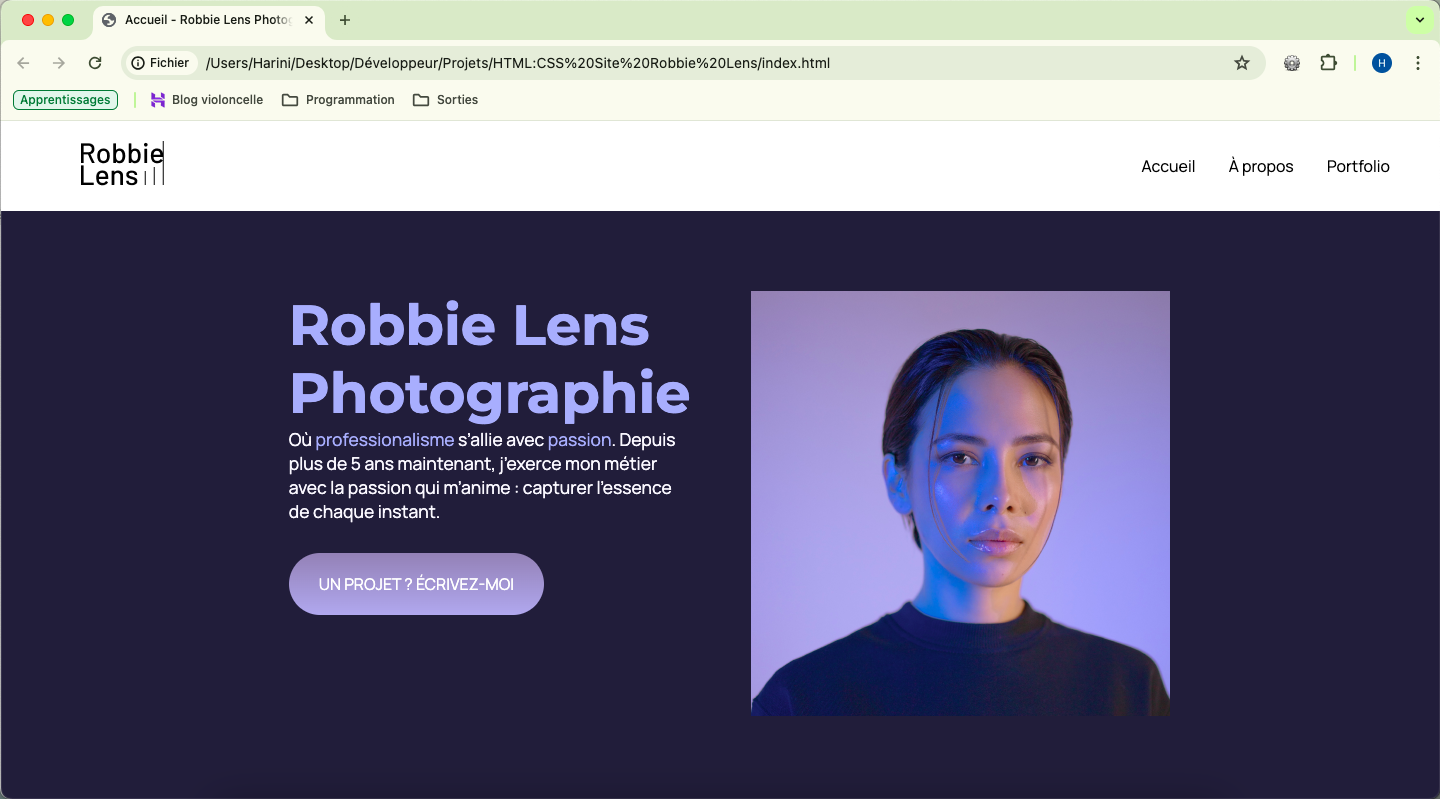
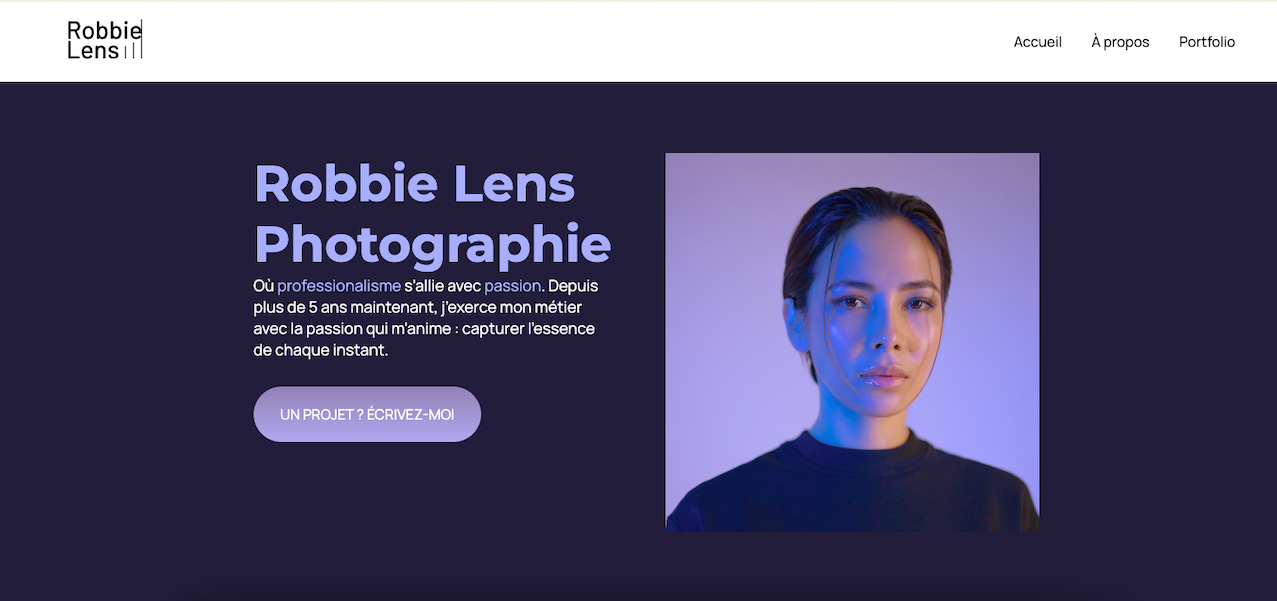
Disposition CSS et formulaire JavaScript

diff --git a/portfolio.html b/portfolio.html
@@ -20,7 +20,7 @@
       <nav>
         <a href="index.html" class="icone-logo">
           <img
-            src="../logo1.jpg"
+            src="./images/logo1.jpg"
             class="icone-logo"
             alt="Logo Harini Kandauda"
           />
@@ -38,117 +38,31 @@
         <h1>Portfolio</h1>
       </section>
       <section class="contenu-portfolio">
-        <h2>Voyages</h2>
+        <h2>Projets</h2>
         <div class="grid-paysages">
           <a
-            href="./images/portfolio/paysage1.jpg"
+            href="https://github.com/harini-kandauda/Portfolio-Robbie-Lens---OpenClassrooms"
             class="lien-conteneur-photo"
+            target="_blank"
           >
-            <img src="./images/portfolio/paysage1.jpg" alt="paysage1" />
-            <div class="photo-hover">Voir la photo</div>
+            <img src="./images/Site Robbie Lens.png" alt="projet1" />
+            <div class="photo-hover">Voir le projet</div>
           </a>
           <a
-            href="./images/portfolio/paysage2.jpg"
+            href="https://github.com/harini-kandauda/Calculator-Js"
             class="lien-conteneur-photo"
+            target="_blank"
           >
-            <img src="./images/portfolio/paysage2.jpg" alt="paysage2" />
-            <div class="photo-hover">Voir la photo</div>
+            <img src="./images/Projet calculatrice.png" alt="projet2" />
+            <div class="photo-hover">Voir le projet</div>
           </a>
           <a
-            href="./images/portfolio/paysage3.jpg"
+            href="https://github.com/harini-kandauda/AzerType-OpenClass"
             class="lien-conteneur-photo"
+            target="_blank"
           >
-            <img src="./images/portfolio/paysage3.jpg" alt="paysage3" />
-            <div class="photo-hover">Voir la photo</div>
-          </a>
-          <a
-            href="./images/portfolio/paysage4.jpg"
-            class="lien-conteneur-photo"
-          >
-            <img src="./images/portfolio/paysage4.jpg" alt="paysage4" />
-            <div class="photo-hover">Voir la photo</div>
-          </a>
-          <a
-            href="./images/portfolio/paysage5.jpg"
-            class="lien-conteneur-photo"
-          >
-            <img src="./images/portfolio/paysage5.jpg" alt="paysage5" />
-            <div class="photo-hover">Voir la photo</div>
-          </a>
-          <a
-            href="./images/portfolio/paysage6.jpg"
-            class="lien-conteneur-photo"
-          >
-            <img src="./images/portfolio/paysage6.jpg" alt="paysage6" />
-            <div class="photo-hover">Voir la photo</div>
-          </a>
-          <a
-            href="./images/portfolio/paysage7.jpg"
-            class="lien-conteneur-photo"
-          >
-            <img src="./images/portfolio/paysage7.jpg" alt="paysage7" />
-            <div class="photo-hover">Voir la photo</div>
-          </a>
-          <a
-            href="./images/portfolio/paysage8.jpg"
-            class="lien-conteneur-photo"
-          >
-            <img src="./images/portfolio/paysage8.jpg" alt="paysage8" />
-            <div class="photo-hover">Voir la photo</div>
-          </a>
-          <a
-            href="./images/portfolio/paysage9.jpg"
-            class="lien-conteneur-photo"
-          >
-            <img src="./images/portfolio/paysage9.jpg" alt="paysage9" />
-            <div class="photo-hover">Voir la photo</div>
-          </a>
-        </div>
-        <section class="portraits">
-          <h2>Portraits</h2>
-        </section>
-        <div class="grid-portraits">
-          <a
-            href="./images/portfolio/portrait1.jpg"
-            class="lien-conteneur-photo"
-          >
-            <img src="./images/portfolio/portrait1.jpg" alt="portrait1" />
-            <div class="photo-hover">Voir la photo</div>
-          </a>
-          <a
-            href="./images/portfolio/portrait2.jpg"
-            class="lien-conteneur-photo"
-          >
-            <img src="./images/portfolio/portrait2.jpg" alt="portrait2" />
-            <div class="photo-hover">Voir la photo</div>
-          </a>
-          <a
-            href="./images/portfolio/portrait3.jpg"
-            class="lien-conteneur-photo"
-          >
-            <img src="./images/portfolio/portrait3.jpg" alt="portrait3" />
-            <div class="photo-hover">Voir la photo</div>
-          </a>
-          <a
-            href="./images/portfolio/portrait4.jpg"
-            class="lien-conteneur-photo"
-          >
-            <img src="./images/portfolio/portrait4.jpg" alt="portrait4" />
-            <div class="photo-hover">Voir la photo</div>
-          </a>
-          <a
-            href="./images/portfolio/portrait5.jpg"
-            class="lien-conteneur-photo"
-          >
-            <img src="./images/portfolio/portrait5.jpg" alt="portrait5" />
-            <div class="photo-hover">Voir la photo</div>
-          </a>
-          <a
-            href="./images/portfolio/portrait6.jpg"
-            class="lien-conteneur-photo"
-          >
-            <img src="./images/portfolio/portrait6.jpg" alt="portrait6" />
-            <div class="photo-hover">Voir la photo</div>
+            <img src="./images/Azertype.png" alt="projet3" />
+            <div class="photo-hover">Voir le projet</div>
           </a>
         </div>
       </section>
@@ -156,7 +70,11 @@
 
     <footer>
       <a href="index.html" class="icone-logo">
-        <img src="../logo1.jpg" class="icone-logo" alt="Logo Harini Kandauda" />
+        <img
+          src="./images/logo1.jpg"
+          class="icone-logo"
+          alt="Logo Harini Kandauda"
+        />
       </a>
       <div>
         <a

diff --git a/index.html b/index.html
@@ -13,7 +13,7 @@
       <nav>
         <a href="index.html">
           <img
-            src="../logo1.jpg"
+            src="./images/logo1.jpg"
             class="icone-logo"
             alt="Logo Harini Kandauda"
           />
@@ -41,20 +41,19 @@
       <section class="accueil-photos">
         <h2>Apprenez à me connaître</h2>
         <p>
-          Je m'appelle <em>Harini Kandauda</em> et suis
-          <em>Ergonome UX</em>.<br />
-          Je suis actuellement en reconversion pour devenir
-          <em>développeuse Front-End</em>.
+          Je m'appelle <em>Harini Kandauda</em> et suis <em>Ergonome UX</em>. Je
+          suis actuellement en reconversion pour compléter mes compétences avec
+          du <em>développement Front-End</em>.
         </p>
+        <br>
         <div>
-          <img
-            src="./images/accueil/element-1.png"
-            alt="Twelve apostles - Australie"
-          />
-          <img
-            src="./images/accueil/element-2.png"
-            alt="Wai-O-Tapu - Nouvelle-Zélande"
-          />
+        
+          <ul>
+            <strong>Compétences :</strong> <br> <br>
+            <li>Ergonomie UX</li>
+            <li>Gestion de projet agile</li>
+            <li>Figma, SketchUp</li>
+          </ul>
         </div>
       </section>
       <section id="contact" class="section-contact">
@@ -79,7 +78,11 @@
     </main>
 
     <footer>
-      <img src="../logo1.jpg" class="icone-logo" alt="Logo Harini Kandauda" />
+      <img
+        src="./images/logo1.jpg"
+        class="icone-logo"
+        alt="Logo Harini Kandauda"
+      />
       <div>
         <a
           href="https://www.linkedin.com/in/harini-kandauda-273bb6200/"

diff --git a/style/portfolio.css b/style/portfolio.css
@@ -7,14 +7,7 @@
   margin-bottom: 80px;
 }
 
-.portraits {
-  color: #242424;
-  padding: 0;
-  margin-top: 2%;
-}
-
-.grid-paysages img,
-.grid-portraits img {
+.grid-paysages img {
   width: 100%;
   height: 100%;
   object-fit: cover;
@@ -23,13 +16,7 @@
 
 .grid-paysages {
   display: grid;
-  grid-template: 300px 300px 300px/1fr 1fr 1fr;
-  gap: 15px;
-}
-
-.grid-portraits {
-  display: grid;
-  grid-template: 300px 300px / 1fr 1fr 1fr;
+  grid-template: 300px/1fr 1fr 1fr;
   gap: 15px;
 }
 
@@ -57,15 +44,9 @@
 }
 
 @media screen and (max-width: 996px) {
- .grid-paysages{
-  grid-template-columns: 1fr;
-  grid-template-rows: repeat(9, 10%);
-  gap : 15px;
- }
-
- .grid-portraits{
-  grid-template-columns: 1fr;
-  grid-template-rows: repeat(9, 10%);
-  gap : 15px;
- }
+  .grid-paysages {
+    grid-template-columns: 1fr;
+    grid-template-rows: repeat(9, 10%);
+    gap: 15px;
+  }
 }

diff --git a/a-propos.html b/a-propos.html
@@ -20,7 +20,7 @@
       <nav>
         <a href="index.html" class="icone-logo">
           <img
-            src="../logo1.jpg"
+            src="./images/logo1.jpg"
             class="icone-logo"
             alt="Logo Harini Kandauda"
           />
@@ -94,10 +94,10 @@
     <footer>
       <a href="index.html" class="icone-logo">
         <img
-            src="../logo1.jpg"
-            class="icone-logo"
-            alt="Logo Harini Kandauda"
-          />
+          src="./images/logo1.jpg"
+          class="icone-logo"
+          alt="Logo Harini Kandauda"
+        />
       </a>
       <div>
         <a

diff --git a/style/styles.css b/style/styles.css
@@ -8,6 +8,13 @@ body {
   background-color: rgb(32, 69, 26);
 }
 
+header {
+  display: flex;
+  flex-direction: row;
+  justify-content: space-between;
+  align-items: center;
+}
+
 header,
 footer {
   background-color: white;
@@ -85,6 +92,10 @@ a:hover {
 .cta:hover {
   text-decoration: none;
   background: linear-gradient(#848064, #bab187);
+}
+
+section {
+  padding: 40px;
 }
 
 footer,

diff --git a/style/index.css b/style/index.css
@@ -2,12 +2,13 @@
   display: flex;
   flex-direction: row;
   align-items: center;
+  justify-content: center;
 }
 
 .accueil-introduction img {
-  width: 40%;
-  height: 40%;
-  margin-left: 80px;
+  width: 35%;
+  height: 35%;
+  margin-left: 50px;
 }
 .accueil-photos {
   background-color: white;

diff --git a/style/a-propos.css b/style/a-propos.css
@@ -5,6 +5,7 @@
   width: 50%;
   margin: auto;
   margin-bottom: 80px;
+  color: white;
 }
 
 .carre-contenu h2,
@@ -49,4 +50,3 @@ td {
 caption {
   margin: 30px;
 }
-

diff --git a/README.md b/README.md
@@ -1,1 +1,1 @@
-Reprise de tout ce que j'ai appris sur OpenClassrooms dans les cours sur HTML, CSS et JavaScript. Application de ces connaissances dans la création de mon propre site portfolio. 
+Base de code pour le cours HTML CSS
